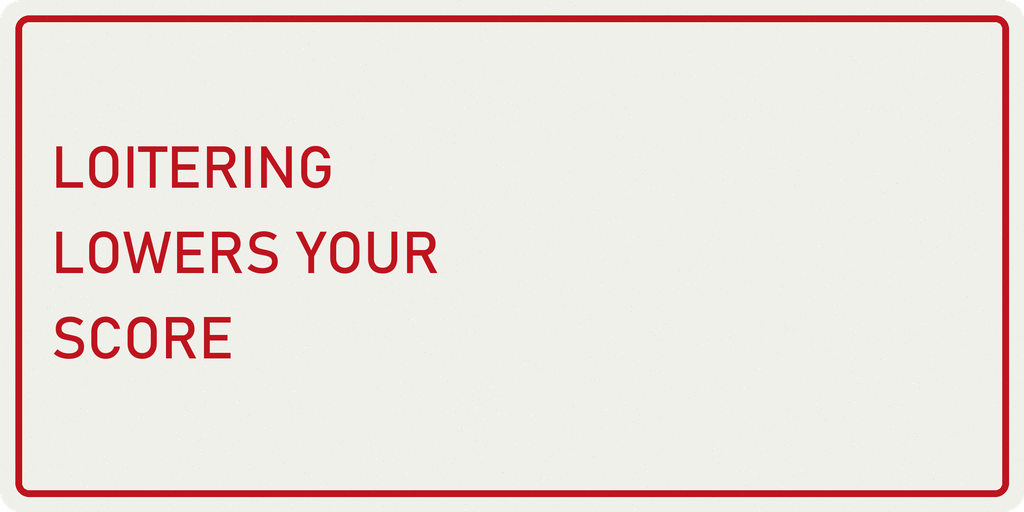
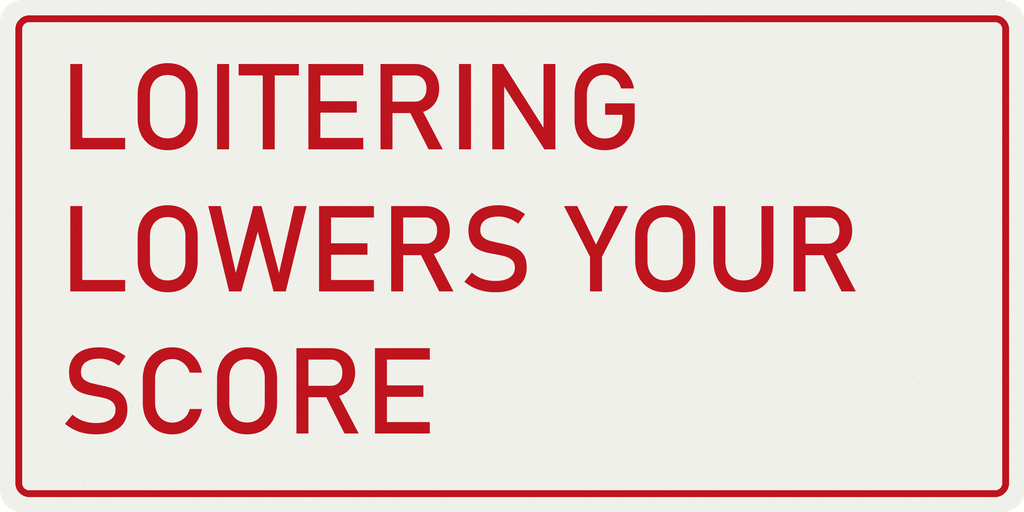
story decals: plates fill their frame, CJK lines use Yu Gothic, MISSING poster layout without overlaps

Changed region(s): [[0.0312, 0.125, 0.8438, 0.875]]

diff --git a/tools/make_story_decals.py b/tools/make_story_decals.py
@@ -195,50 +195,96 @@ SHOP_SIGNS = {
 # ------------------------------------------------------------------ authority plates
 
 
+def has_cjk(txt):
+    return any(ord(c) > 0x2E7F for c in txt)
+
+
+def line_font(txt, size):
+    """Bahnschrift has no Japanese glyphs: CJK lines use Yu Gothic."""
+    return font(JP_BOLD if has_cjk(txt) else BAHN, size)
+
+
+def fit_size(d, lines, max_w, max_h, gap=1.18, start=200):
+    """Largest font size (px) at which every line fits max_w and the block fits max_h."""
+    size = start
+    while size > 8:
+        widest = max(d.textlength(ln, font=line_font(ln, size)) for ln in lines)
+        if widest <= max_w and size * gap * len(lines) <= max_h:
+            return size
+        size -= 2
+    return size
+
+
 def plate(lines, bg, fg, w=1200, h=520, icon=None, sub=None):
+    """Authority plate. The text block is sized to fill the plate (it used to
+    shrink with line length alone and ended up tiny)."""
     s = SS
     img = canvas(w, h)
     d = ImageDraw.Draw(img)
     d.rounded_rectangle([0, 0, w * s, h * s], radius=24 * s, fill=bg)
     d.rounded_rectangle([18 * s, 18 * s, (w - 18) * s, (h - 18) * s], radius=16 * s, outline=fg, width=8 * s)
-    x0 = 60 * s
+    x0 = 70 * s
     if icon == "eye":
-        eye(d, 190 * s, h * s / 2, 120 * s, fg, 14 * s)
-        x0 = 360 * s
-    f = font(BAHN, int(84 * s * min(1.0, 9 / max(len(l) for l in lines))))
-    gap = 100 * s
-    y0 = h * s / 2 - gap * (len(lines) - 1) / 2 - (30 * s if sub else 0)
+        eye(d, 200 * s, (h * s) / 2 - (25 * s if sub else 0), 125 * s, fg, 14 * s)
+        x0 = 370 * s
+    sub_h = 80 * s if sub else 0
+    top, bottom = 50 * s, h * s - 50 * s - sub_h
+    size = fit_size(d, lines, w * s - x0 - 70 * s, bottom - top, start=170 * s)
+    gap = size * 1.18
+    y0 = (top + bottom) / 2 - gap * (len(lines) - 1) / 2
     for i, ln in enumerate(lines):
-        d.text((x0, y0 + i * gap), ln, font=f, fill=fg, anchor="lm")
+        d.text((x0, y0 + i * gap), ln, font=line_font(ln, size), fill=fg, anchor="lm")
     if sub:
-        d.text((x0, (h - 70) * s), sub, font=font(ARIAL_B, 30 * s), fill=fg, anchor="lm")
+        sf = font(ARIAL_B, fit_size(d, [sub], w * s - x0 - 70 * s, 50 * s, start=40 * s))
+        d.text((x0, h * s - 50 * s - sub_h / 2), sub, font=sf, fill=fg, anchor="lm")
     return noise_overlay(finish(img, 0.0), 7, 10)
 
 # ------------------------------------------------------------------ street posters
 
 
 def poster_missing(name, seed):
+    """MISSING poster: photo, name, last-seen note and tear-off phone tabs,
+    each in its own band so nothing overlaps."""
     W, H = 700, 1000
     s = SS
     rnd = random.Random(seed)
     img = canvas(W, H)
     d = ImageDraw.Draw(img)
-    d.rectangle([0, 0, W * s, H * s], fill=(236, 232, 220, 255))
-    text_c(d, (W * s / 2, 110 * s), "MISSING", font(IMPACT, 170 * s), (20, 20, 20, 255))
-    text_c(d, (W * s / 2, 210 * s), "行方不明", font(JP_BOLD, 60 * s), (190, 20, 30, 255))
-    # photo: grey head silhouette
-    d.rectangle([160 * s, 270 * s, 540 * s, 650 * s], fill=(120, 118, 112, 255))
-    d.ellipse([270 * s, 320 * s, 430 * s, 500 * s], fill=(60, 58, 55, 255))
-    d.ellipse([200 * s, 480 * s, 500 * s, 760 * s], fill=(60, 58, 55, 255))
-    d.rectangle([160 * s, 650 * s, 540 * s, 700 * s], fill=(236, 232, 220, 255))
-    text_c(d, (W * s / 2, 740 * s), name, font(BAHN, 64 * s), (20, 20, 20, 255))
-    f = font(ARIAL_B, 30 * s)
+    paper, ink, red, grey = (236, 232, 220, 255), (20, 20, 20, 255), (190, 20, 30, 255), (40, 40, 40, 255)
+    d.rectangle([0, 0, W * s, H * s], fill=paper)
+    text_c(d, (W * s / 2, 100 * s), "MISSING", font(IMPACT, 160 * s), ink)
+    text_c(d, (W * s / 2, 200 * s), "行方不明", font(JP_BOLD, 54 * s), red)
+    # photo: grey head-and-shoulders silhouette, clipped to the photo frame
+    px0, py0, px1, py1 = 180 * s, 250 * s, 520 * s, 590 * s
+    photo = Image.new("RGBA", ((px1 - px0), (py1 - py0)), (120, 118, 112, 255))
+    pd = ImageDraw.Draw(photo)
+    pw, ph = photo.size
+    pd.ellipse([pw * 0.32, ph * 0.12, pw * 0.68, ph * 0.55], fill=(60, 58, 55, 255))
+    pd.ellipse([pw * 0.1, ph * 0.5, pw * 0.9, ph * 1.3], fill=(60, 58, 55, 255))
+    img.alpha_composite(photo, (px0, py0))
+    d.rectangle([px0, py0, px1, py1], outline=(60, 58, 55, 255), width=3 * s)
+    text_c(d, (W * s / 2, 645 * s), name, font(BAHN, fit_size(d, [name], 600 * s, 70 * s, start=64 * s)), ink)
+    f = font(ARIAL_B, 27 * s)
     for i, ln in enumerate(["Last seen entering the", "MERIDIAN WELLNESS CENTRE", f"Score at disappearance: {rnd.randint(180, 330)}"]):
-        text_c(d, (W * s / 2, (810 + i * 44) * s), ln, f, (40, 40, 40, 255))
-    # tear-off tabs
-    for i in range(7):
-        x = (40 + i * 92) * s
-        d.line([x, 950 * s, x, H * s], fill=(150, 150, 140, 255), width=2 * s)
+        text_c(d, (W * s / 2, (705 + i * 38) * s), ln, f, grey)
+    # tear-off tabs: a dashed cut line, then vertical phone numbers
+    tab_top = 830 * s
+    for x in range(0, W * s, 16 * s):
+        d.line([x, tab_top, x + 9 * s, tab_top], fill=(150, 150, 140, 255), width=2 * s)
+    n = 8
+    tw = W * s / n
+    number = f"070-{rnd.randint(1000, 9999)}-{rnd.randint(1000, 9999)}"
+    tf = font(ARIAL_B, 19 * s)
+    for i in range(n):
+        if i:
+            d.line([i * tw, tab_top, i * tw, H * s], fill=(150, 150, 140, 255), width=2 * s)
+        if rnd.random() < 0.3:  # someone already took this one
+            d.rectangle([i * tw + 2 * s, tab_top + 2 * s, (i + 1) * tw - 2 * s, H * s], fill=(0, 0, 0, 0))
+            continue
+        lab = Image.new("RGBA", (int(H * s - tab_top - 16 * s), int(tw - 10 * s)), (0, 0, 0, 0))
+        ImageDraw.Draw(lab).text((lab.width / 2, lab.height / 2), number, font=tf, fill=grey, anchor="mm")
+        lab = lab.rotate(90, expand=True)
+        img.alpha_composite(lab, (int(i * tw + 5 * s), int(tab_top + 8 * s)))
     img = finish(img, 0.0)
     return noise_overlay(img, seed, 22)
 
